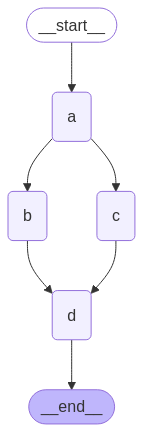
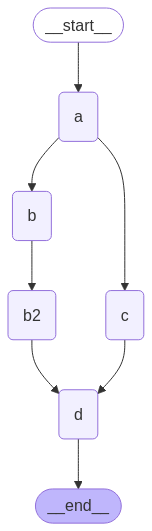
chore: parallel fan-in-out graph nodes.

diff --git a/src/async_graph/main.py b/src/async_graph/main.py
@@ -21,17 +21,25 @@ class ReturnNodeValue:
 
 
 builder = StateGraph(State)
+# NODES
 builder.add_node("a", ReturnNodeValue("I'm A"))
-
 builder.add_node("b", ReturnNodeValue("I'm B"))
+builder.add_node("b2", ReturnNodeValue("I'm B2"))
 builder.add_node("c", ReturnNodeValue("I'm C"))
 builder.add_node("d", ReturnNodeValue("I'm D"))
 
+# EDGES
 builder.add_edge(START, "a")
 builder.add_edge("a", "b")
 builder.add_edge("a", "c")
-builder.add_edge("b", "d")
-builder.add_edge("c", "d")
+builder.add_edge("b", "b2")
+
+## Multiple edges at once i.e creates b2->d, and c->d.
+## builder.add_edge("b2", "d")
+## builder.add_edge("c", "d")
+##This avoids writing multiple lines
+builder.add_edge(["b2","c"], "d")
+
 builder.add_edge("d", END)
 
 graph = builder.compile()
